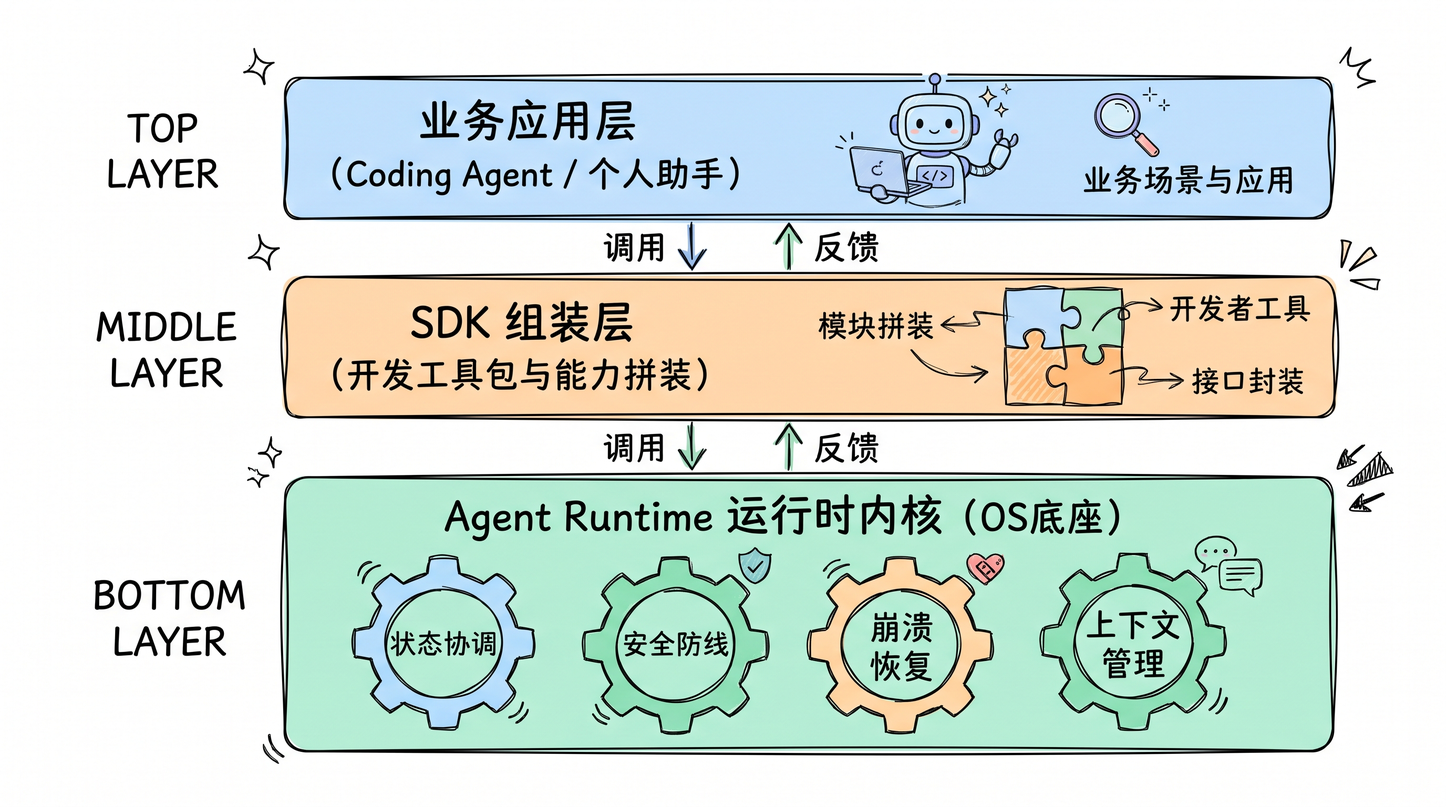
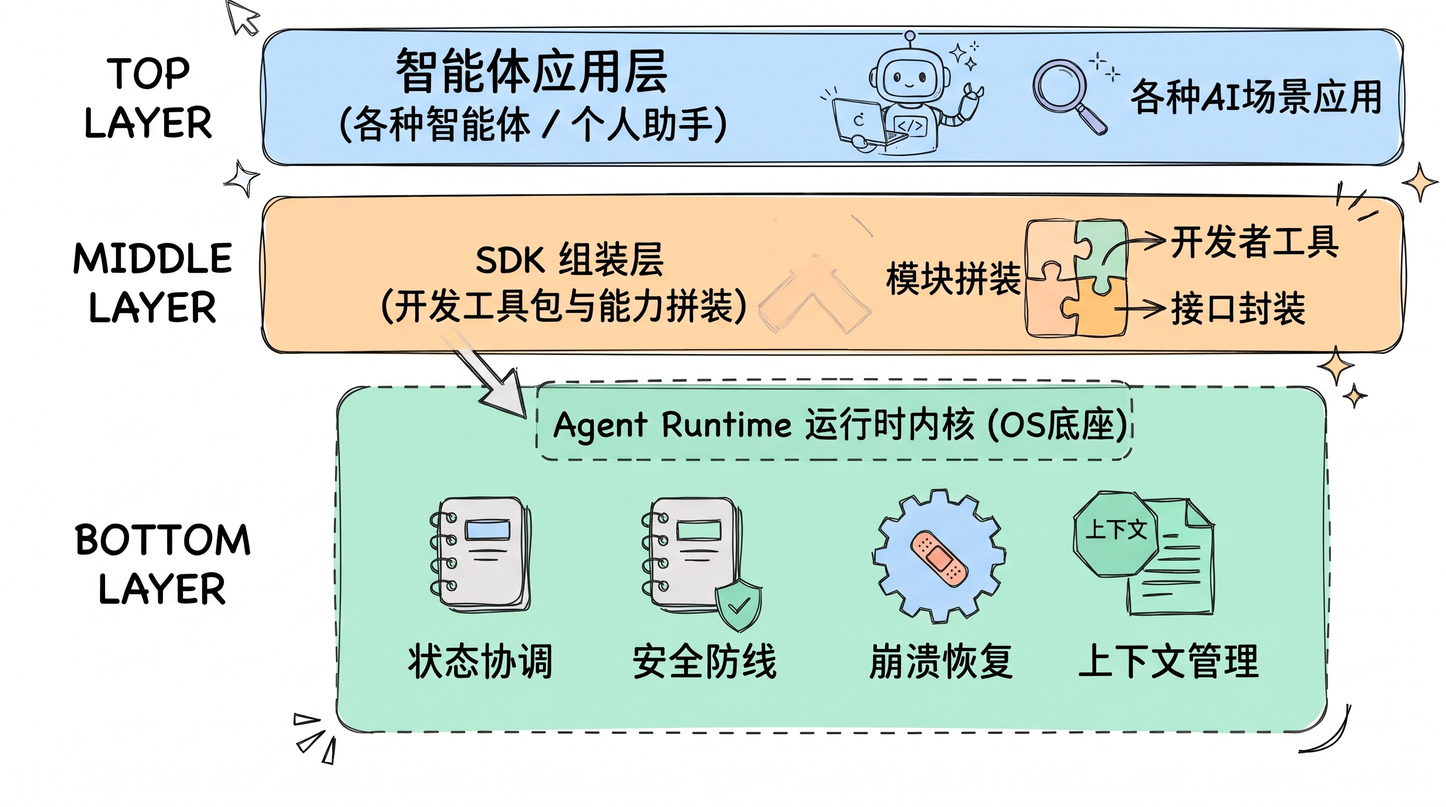
Publish updated Runtime architecture image and WebP output

diff --git a/posts/agent/agent-principle-design/03-agent-runtime-engine-design/index.html b/posts/agent/agent-principle-design/03-agent-runtime-engine-design/index.html
@@ -119,7 +119,7 @@
 </ul>
 <p>这些问题涉及执行状态、配置、输入和存储，需要由模型之外的程序处理。在 <a href="https://github.com/haifa-agent/haifa-agent">Haifa Agent 项目</a>中，承担这些职责的是 Agent Runtime。</p>
 <p>本文讨论 Haifa Agent  中的 Runtime 设计。编码智能体 和个人助手（PA）承载不同的业务，SDK 提供开发接口，Runtime 则管理它们共同需要的执行机制：任务如何启动，模型和工具如何调用，何时等待用户，以及执行中断后如何处理已有状态。可以把它类比为应用之下的操作系统内核，不过这里讨论的范围是 Agent 任务的运行。</p>
-<a href="/posts/agent/agent-principle-design/03-agent-runtime-engine-design/image/layer-agent-runtime-architecture.jpg" data-original-image="true" target="_blank" rel="noopener" aria-label="查看原图：智能体应用、SDK 组装层与 Agent Runtime 的分层关系"><img src="/posts/agent/agent-principle-design/03-agent-runtime-engine-design/image/layer-agent-runtime-architecture_hu_42690ccd10f7b838.webp" alt="智能体应用、SDK 组装层与 Agent Runtime 的分层关系" width="2752" height="1536" loading="eager" decoding="async"></a><h2 id="一任务启动时先确定配置和身份">一、任务启动时，先确定配置和身份</h2>
+<a href="/posts/agent/agent-principle-design/03-agent-runtime-engine-design/image/layer-agent-runtime-architecture.jpg" data-original-image="true" target="_blank" rel="noopener" aria-label="查看原图：智能体应用、SDK 组装层与 Agent Runtime 的分层关系"><img src="/posts/agent/agent-principle-design/03-agent-runtime-engine-design/image/layer-agent-runtime-architecture_hu_ba0586a6fb4fbc29.webp" alt="智能体应用、SDK 组装层与 Agent Runtime 的分层关系" width="2752" height="1536" loading="eager" decoding="async"></a><h2 id="一任务启动时先确定配置和身份">一、任务启动时，先确定配置和身份</h2>
 <p>假设一个任务启动时使用 Qwen模型，执行期间管理员把全局默认模型改成了 DeepSeek。如果每一轮都重新读取全局配置，同一个任务就可能在中途换用另一套配置。权限范围和技能清单也有同样的问题。</p>
 <p>Haifa Runtime 在 Run 启动时冻结已经解析出的配置，包括模型绑定、权限范围和技能清单。后续执行使用这份快照，全局配置的变更不会悄悄替换当前 Run 的配置。这样，即使任务持续运行半个小时，也能知道它依据哪套配置执行。</p>
 <p>任务的身份也需要独立于执行线程。线程可能退出，任务也可能因等待人工审批而挂起；仅靠线程状态，无法完整记录这件事的执行过程。</p>
